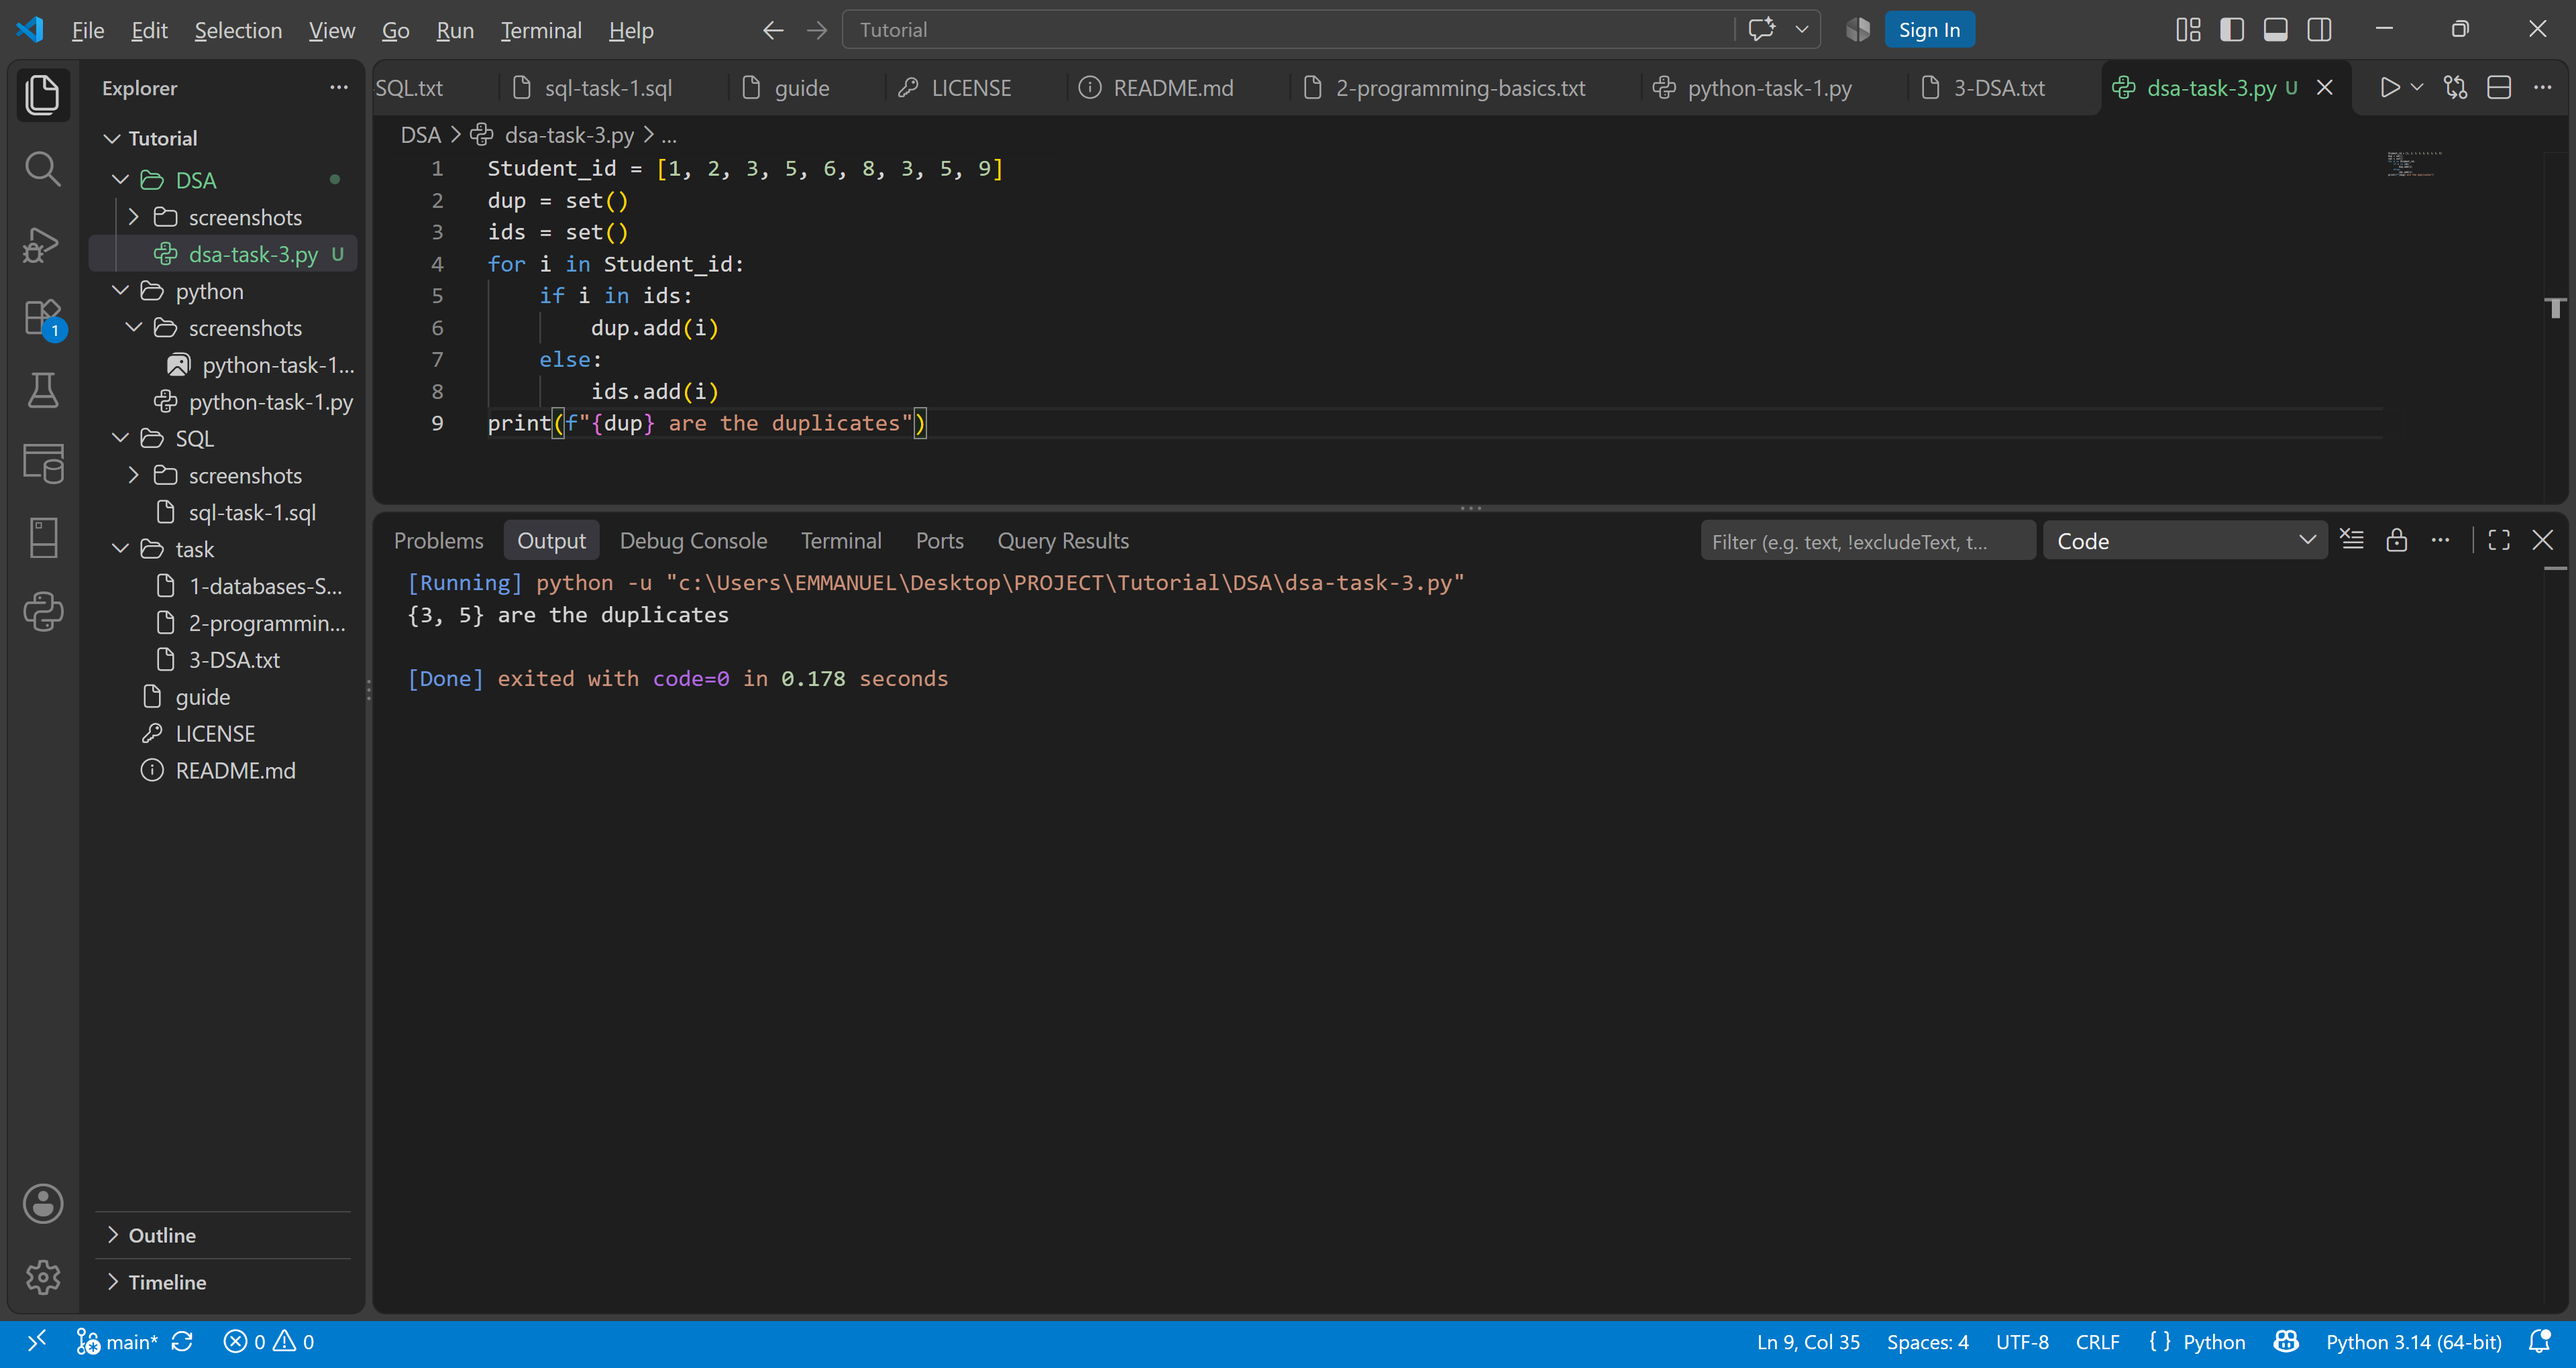
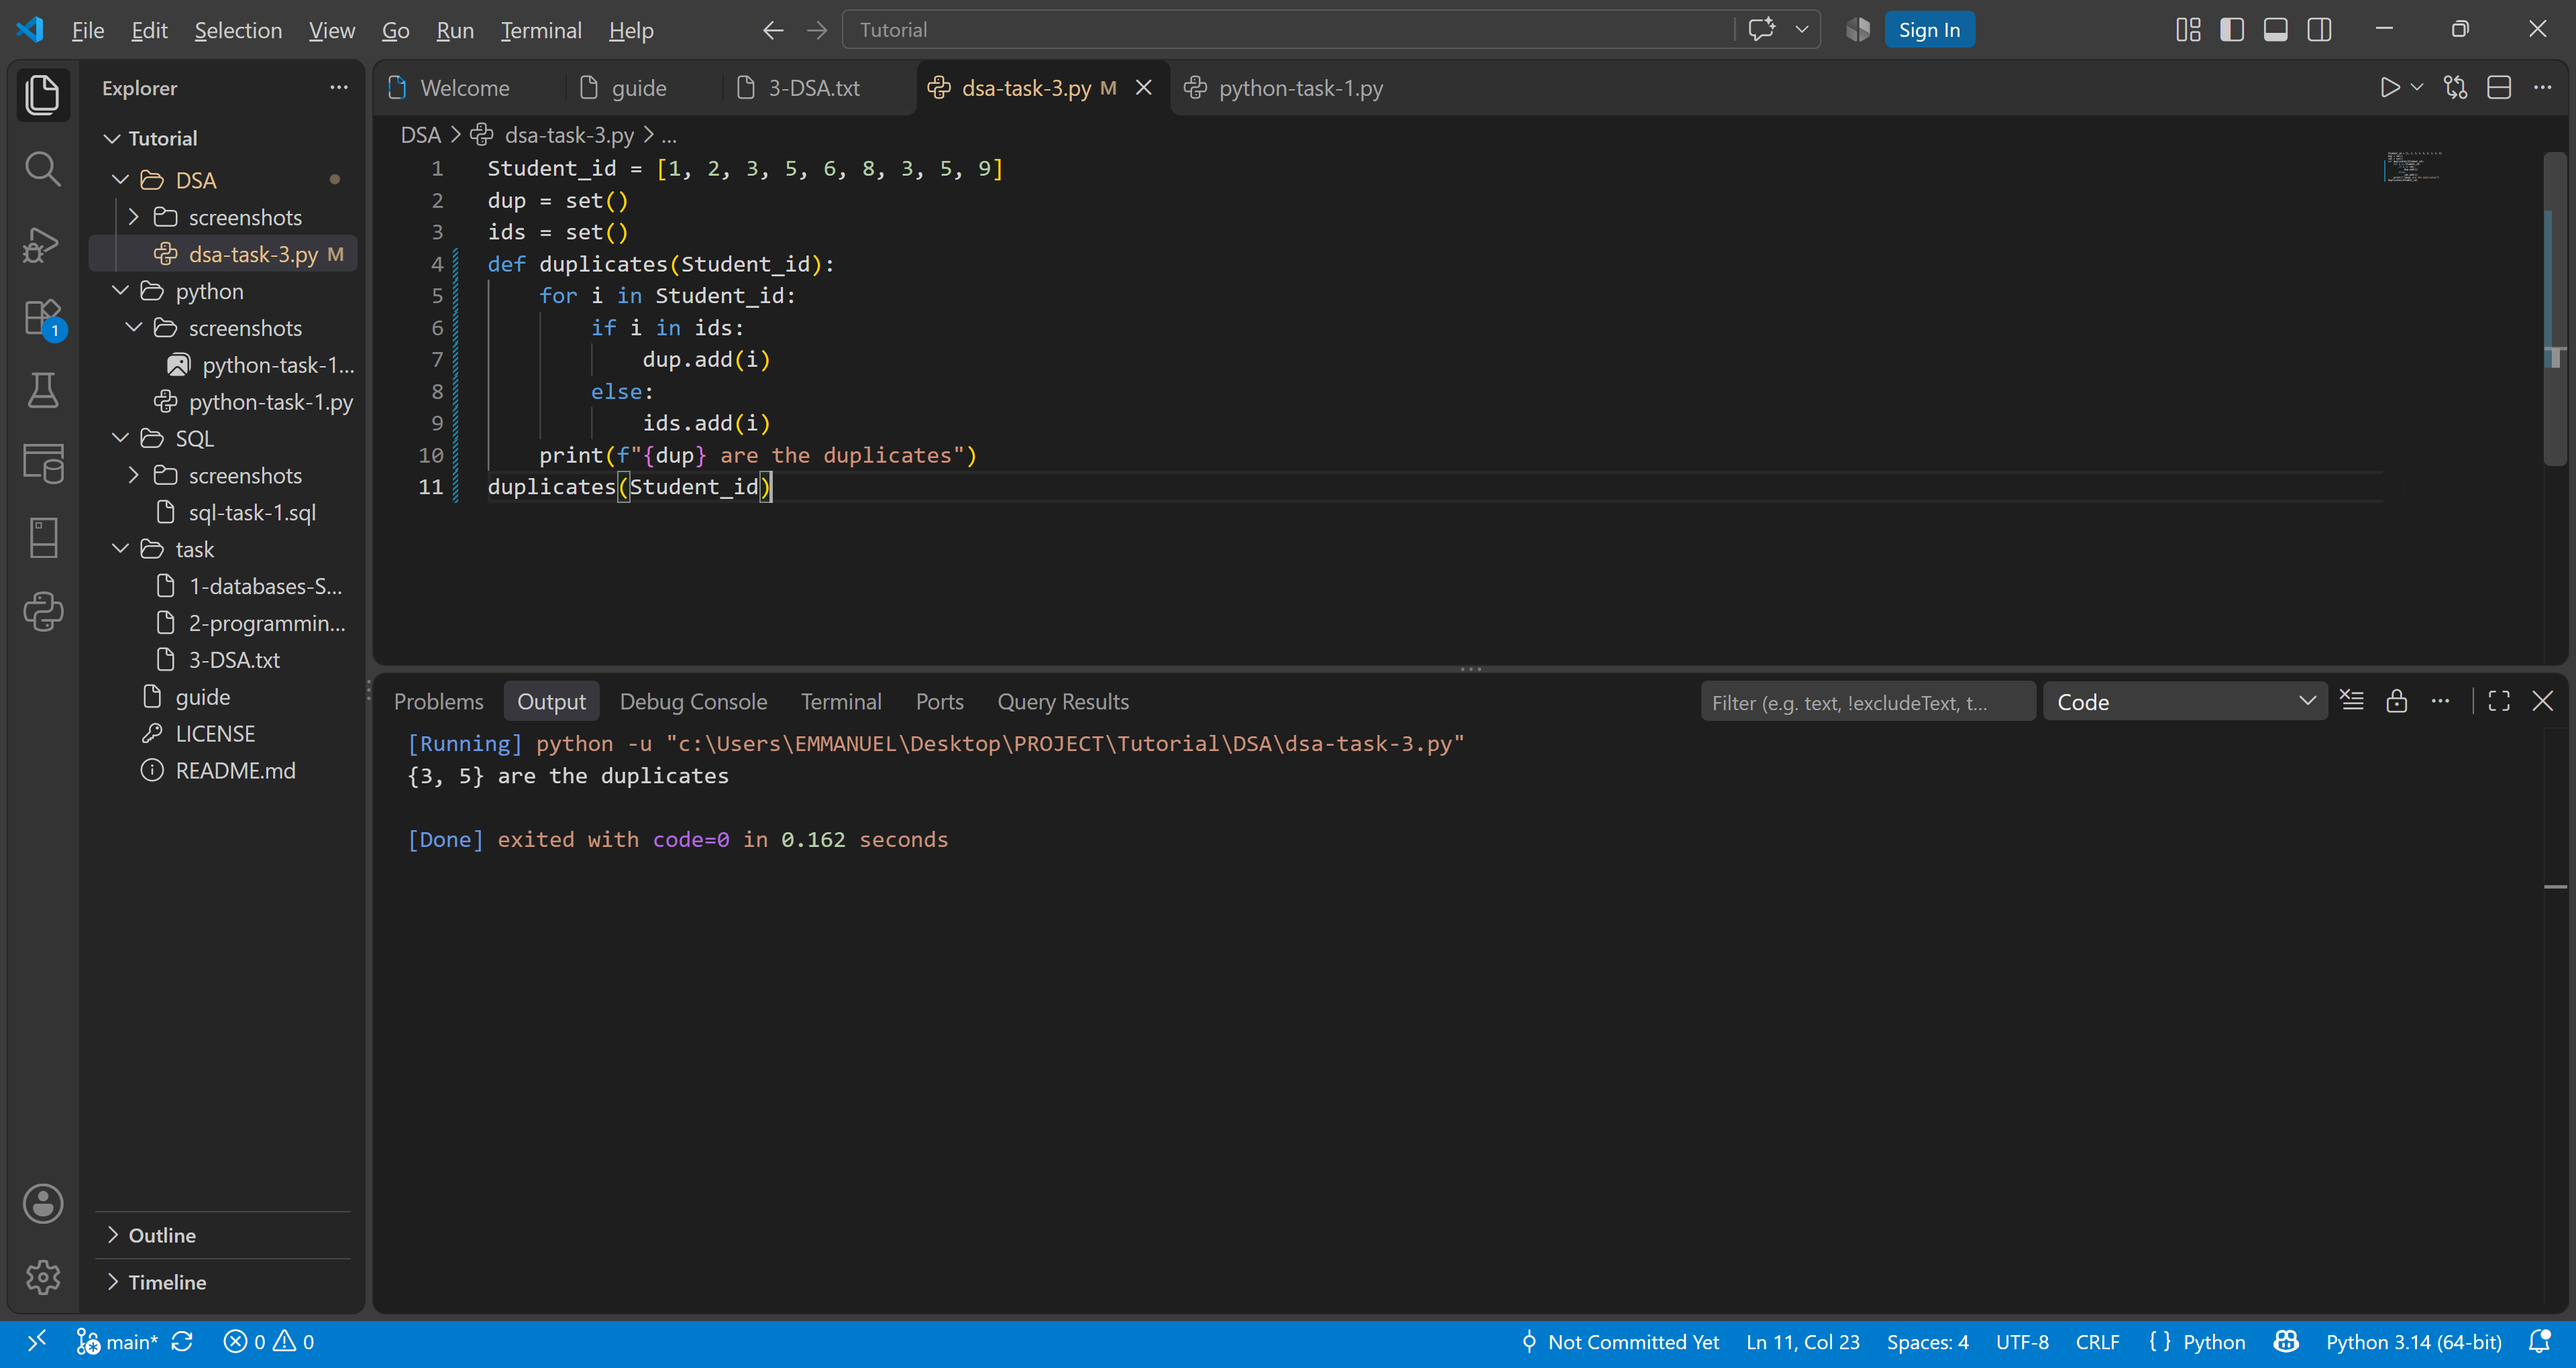
dsa-task-3

diff --git a/DSA/dsa-task-3.py b/DSA/dsa-task-3.py
@@ -1,9 +1,11 @@
 Student_id = [1, 2, 3, 5, 6, 8, 3, 5, 9]
 dup = set()
 ids = set()
-for i in Student_id:
-    if i in ids:
-        dup.add(i)
-    else:
-        ids.add(i)
-print(f"{dup} are the duplicates")
+def duplicates(Student_id):
+    for i in Student_id:
+        if i in ids:
+            dup.add(i)
+        else:
+            ids.add(i)
+    print(f"{dup} are the duplicates")
+duplicates(Student_id)
